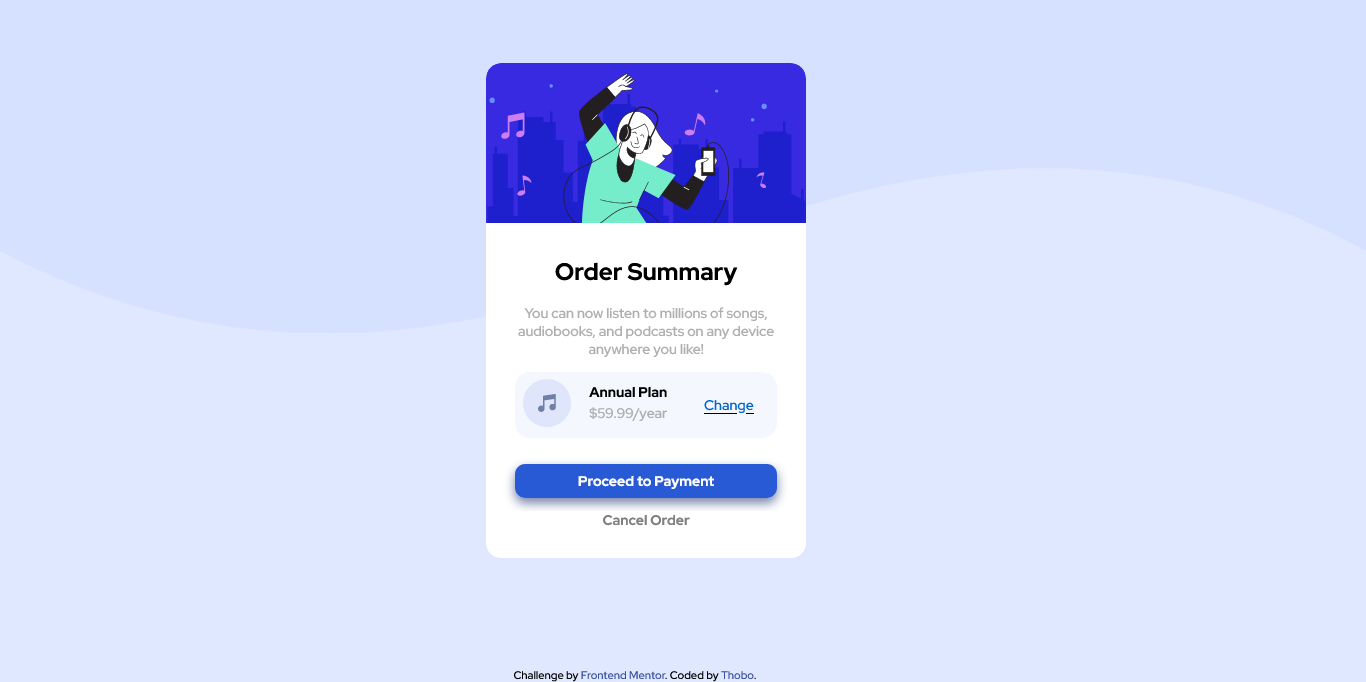
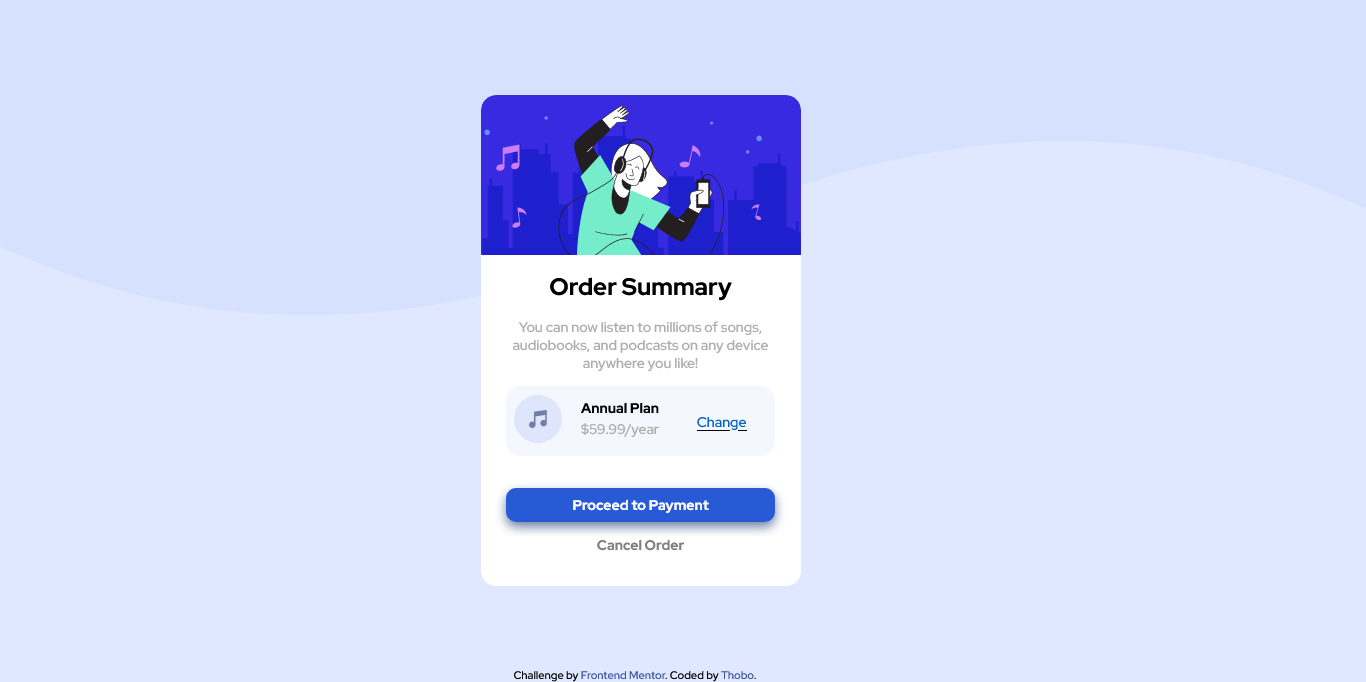
update screenshots

Changed region(s): [[0.3382, 0.0924, 0.6149, 0.8622], [0.5227, 0.585, 0.5534, 0.6466]]

diff --git a/styles.css b/styles.css
@@ -8,12 +8,12 @@ body {
 }
 
 .container {
+    width: 20rem;
     display: flex;
     align-items: center;
     justify-content: center;
     flex-direction: column;
-    width: 20rem;
-    margin: 3% 35%;
+    margin: 7% 35%;
 }
 
 main {
